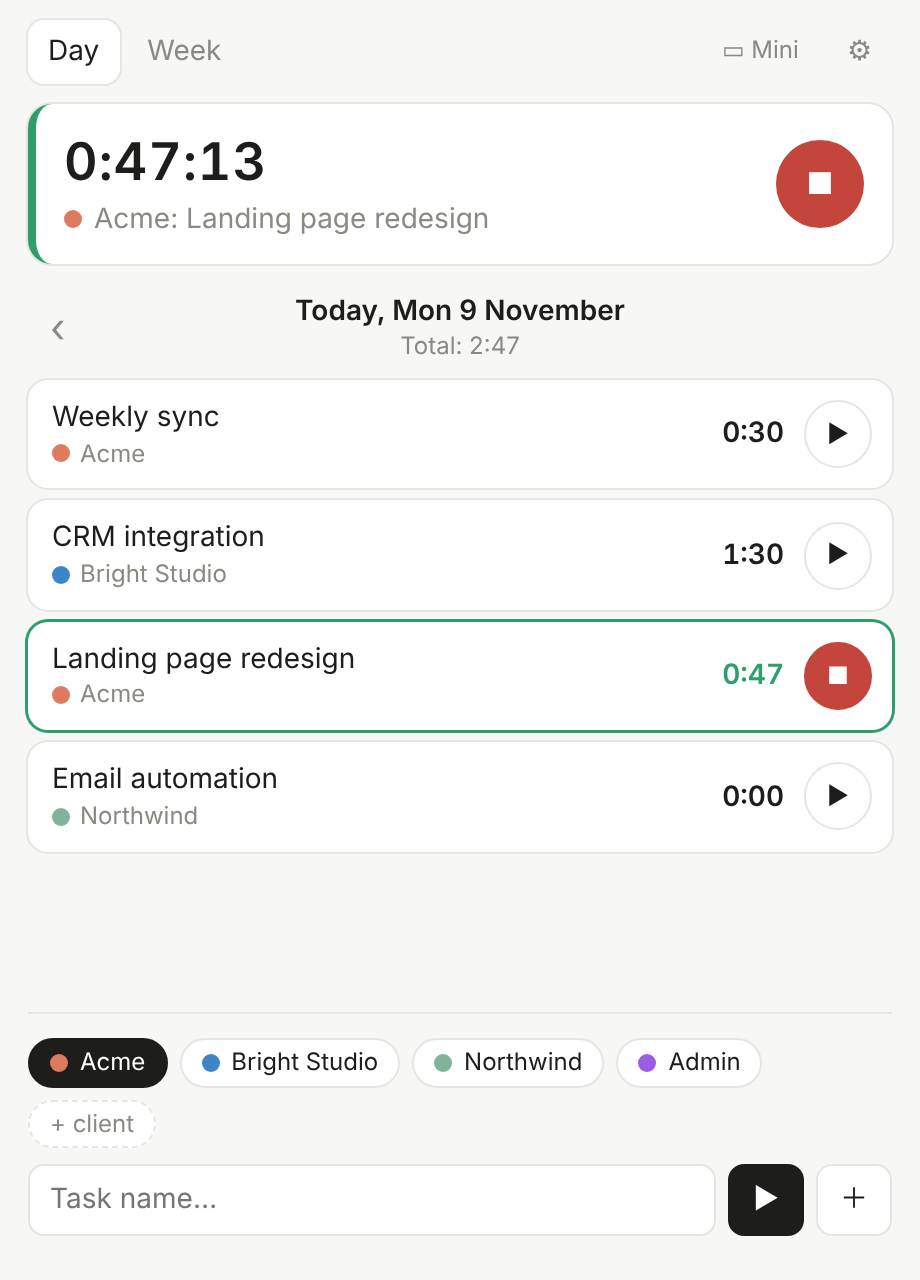
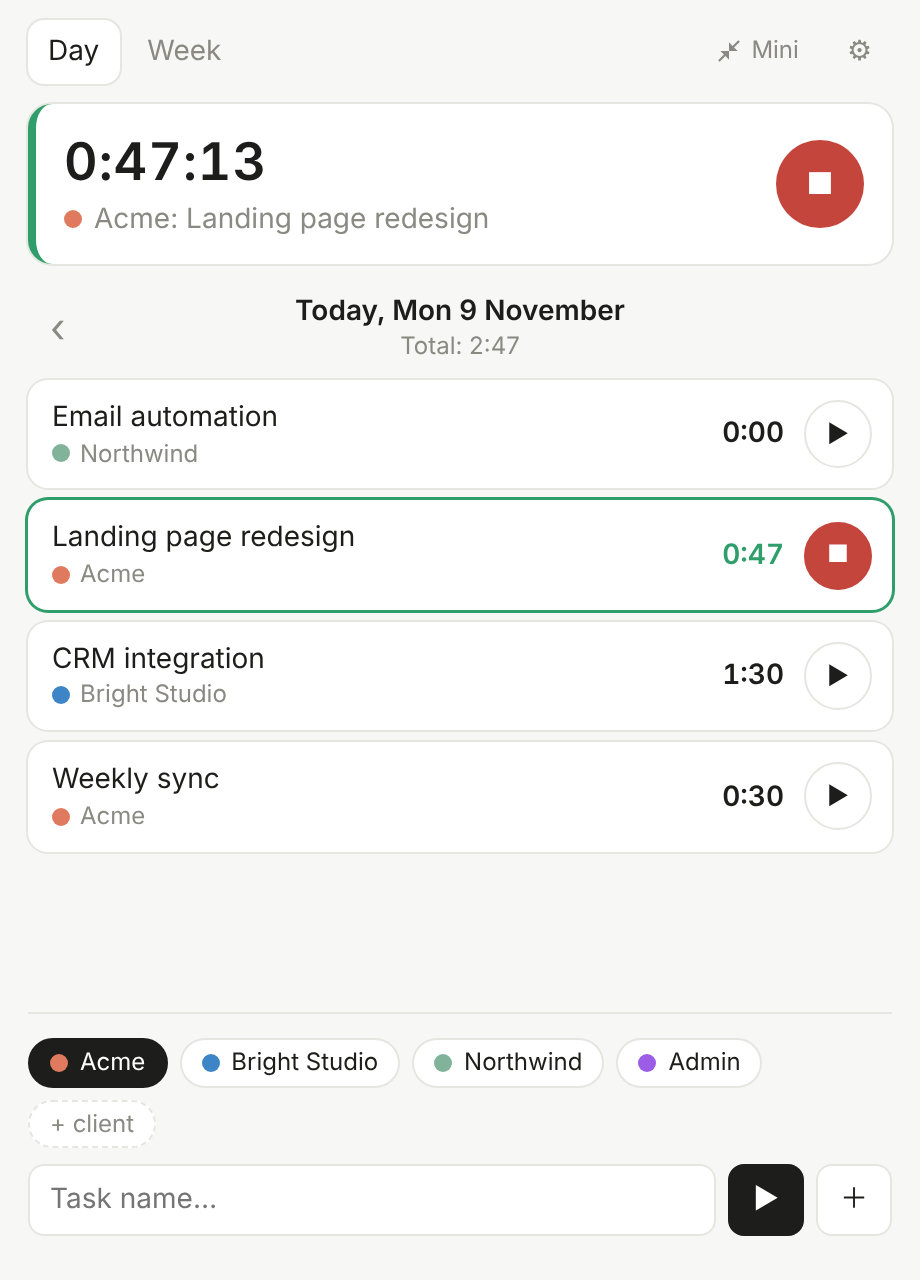
Docs: README and screenshots for 1.0.11
Claude-Session: https://claude.ai/code/session_01L7nqV67o9vX3k8GaG591Vb

diff --git a/README.md b/README.md
@@ -23,20 +23,21 @@
 ## Features
 
 - **Clients & tasks** — pick a client, type a task, press Enter and the timer starts. Recent tasks are one click away.
-- **Instant switching** — start another task and the previous one stops automatically.
+- **Instant switching** — start another task and the previous one stops automatically. New tasks appear at the top of the day.
 - **Fresh start every day** — each day begins at zero; previous days stay available and editable.
 - **Manual corrections** — edit start/end times, add or delete intervals. Forgot to stop? Just type when you finished.
+- **Drag time between tasks** — logged to the wrong task? Drag the interval (⠿) onto the right one.
 - **Idle auto-pause** — no mouse or keyboard for 10 minutes (configurable), screen lock or sleep → Focusly notices.
   When you're back it asks what to do with that time: discard it, keep it, or log it to another task.
 - **Reminders** — "Still on it?" every 30 minutes, "Timer is not running" when you work without tracking,
   and an end-of-workday summary. Work days are configurable — no nagging on weekends.
-- **Mini mode** — a single always-on-top line with `Client: Task`, the timer and stop/start.
+- **Mini mode** — a single always-on-top line with `Client: Task`, the timer and stop/start. Works with multiple monitors.
 - **Weekly report** — client → task → day table; copy to Google Sheets / Excel or export a detailed CSV.
-- **Hide finished work** — hide clients or tasks you're done with; history and reports stay.
+- **Hide or delete** — hide clients and tasks you're done with (history and reports stay), or delete ones added by mistake (with confirmation).
 - **Tray & autostart** — keeps running next to the clock; optional start on login.
 - **English / Русский** interface.
 - **Private by design** — all data stays on your computer in a single JSON file. No accounts, no cloud.
-- **Auto-updates** from GitHub Releases.
+- **Quiet auto-updates** — new versions download in the background; a green dot on ⚙ means one is ready. No pop-ups.
 
 <p align="center">
   <img src="docs/away.png" width="340" alt="Back from a break">
@@ -87,7 +88,9 @@ Updates install automatically.
 | `Ctrl+M` | mini mode |
 | `Ctrl+.` | stop the timer |
 
-- Click a task in the day view to edit its time intervals.
+- Click a task in the day view to edit its time intervals; drag ⠿ to move an interval to another task.
+- Week view hides empty weekend days; the Total column always stays visible.
+- Something not working? ⚙ → About → *Copy diagnostics* and send it along with your question.
 - Closing the window keeps Focusly running in the tray. Quit from the tray menu.
 - Your data is a single JSON file (Settings → *Open data folder*): `%APPDATA%\Focusly` on Windows,
   `~/Library/Application Support/Focusly` on macOS, `~/.config/Focusly` on Linux.
@@ -129,11 +132,11 @@ src/i18n.js      English and Russian texts
 **Focusly** — простой минималистичный тайм-трекер для работы с клиентами: время по клиентам и задачам, переключение в один клик, отчёт за неделю.
 
 **Что умеет:** клиенты и задачи с запуском в один клик и мгновенным переключением; каждый день начинается с нуля,
-прошлые дни можно открыть и поправить; ручная правка интервалов; автопауза при бездействии, блокировке экрана и сне
+прошлые дни можно открыть и поправить; ручная правка интервалов и перенос времени на другую задачу перетаскиванием; новые задачи появляются сверху; автопауза при бездействии, блокировке экрана и сне
 с вопросом при возвращении («убрать время», «оставить» или «записать на другую задачу»); напоминания «продолжаем?»,
 «таймер не запущен» и «конец рабочего дня» с учётом рабочих дней; мини-режим поверх всех окон; недельный отчёт
-с копированием в Google Sheets / Excel и экспортом CSV; скрытие завершённых клиентов и задач; трей и автозапуск;
-интерфейс на английском и русском; автообновление. Все данные хранятся только у тебя на компьютере.
+с копированием в Google Sheets / Excel и экспортом CSV; скрытие завершённых клиентов и задач или удаление ошибочных (с подтверждением); трей и автозапуск;
+интерфейс на английском и русском; тихое автообновление (зелёная точка на ⚙, без всплывающих окон). Все данные хранятся только у тебя на компьютере.
 
 **Установка на Windows:**
 1. Скачай **`Focusly-Setup-x.y.z.exe`** со страницы [последнего релиза](https://github.com/KateGrr/focusly/releases/latest) и запусти.
